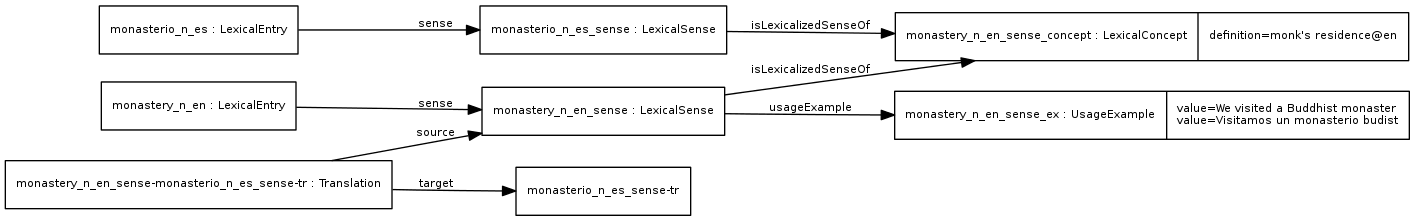
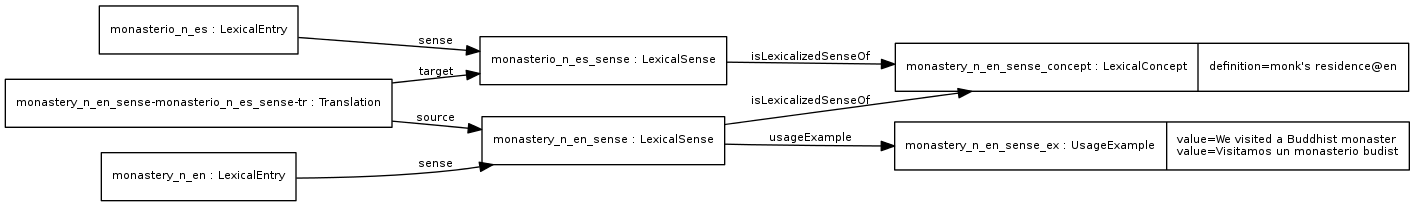
fix typo example 9, update image, add line about omitting entities in ex

diff --git a/index.html b/index.html
@@ -888,7 +888,7 @@ We fist show how to represent the monolingual information only (English).
   </div>
   </div>
 
-Then, we show the complete example where a translation is involved and the same usage example has its own values both in English and Spanish.
+Then, we show the complete example where a translation is involved and the same usage example has its own values both in English and Spanish. For simplicity we omit here some container entities such as <tt>lexicog:LexicographicResource</tt>, <tt>lime:Lexicon</tt> and <tt>vartrans:TranslationSet</tt>.
 
 <div class='beispiel'>
    <p><a href='Examples/new-png/example9_usageExample-multilingual.png' class='tn'/><img src='Examples/new-png/example9_usageExample-multilingual.png' width="100%"/></a></p>
